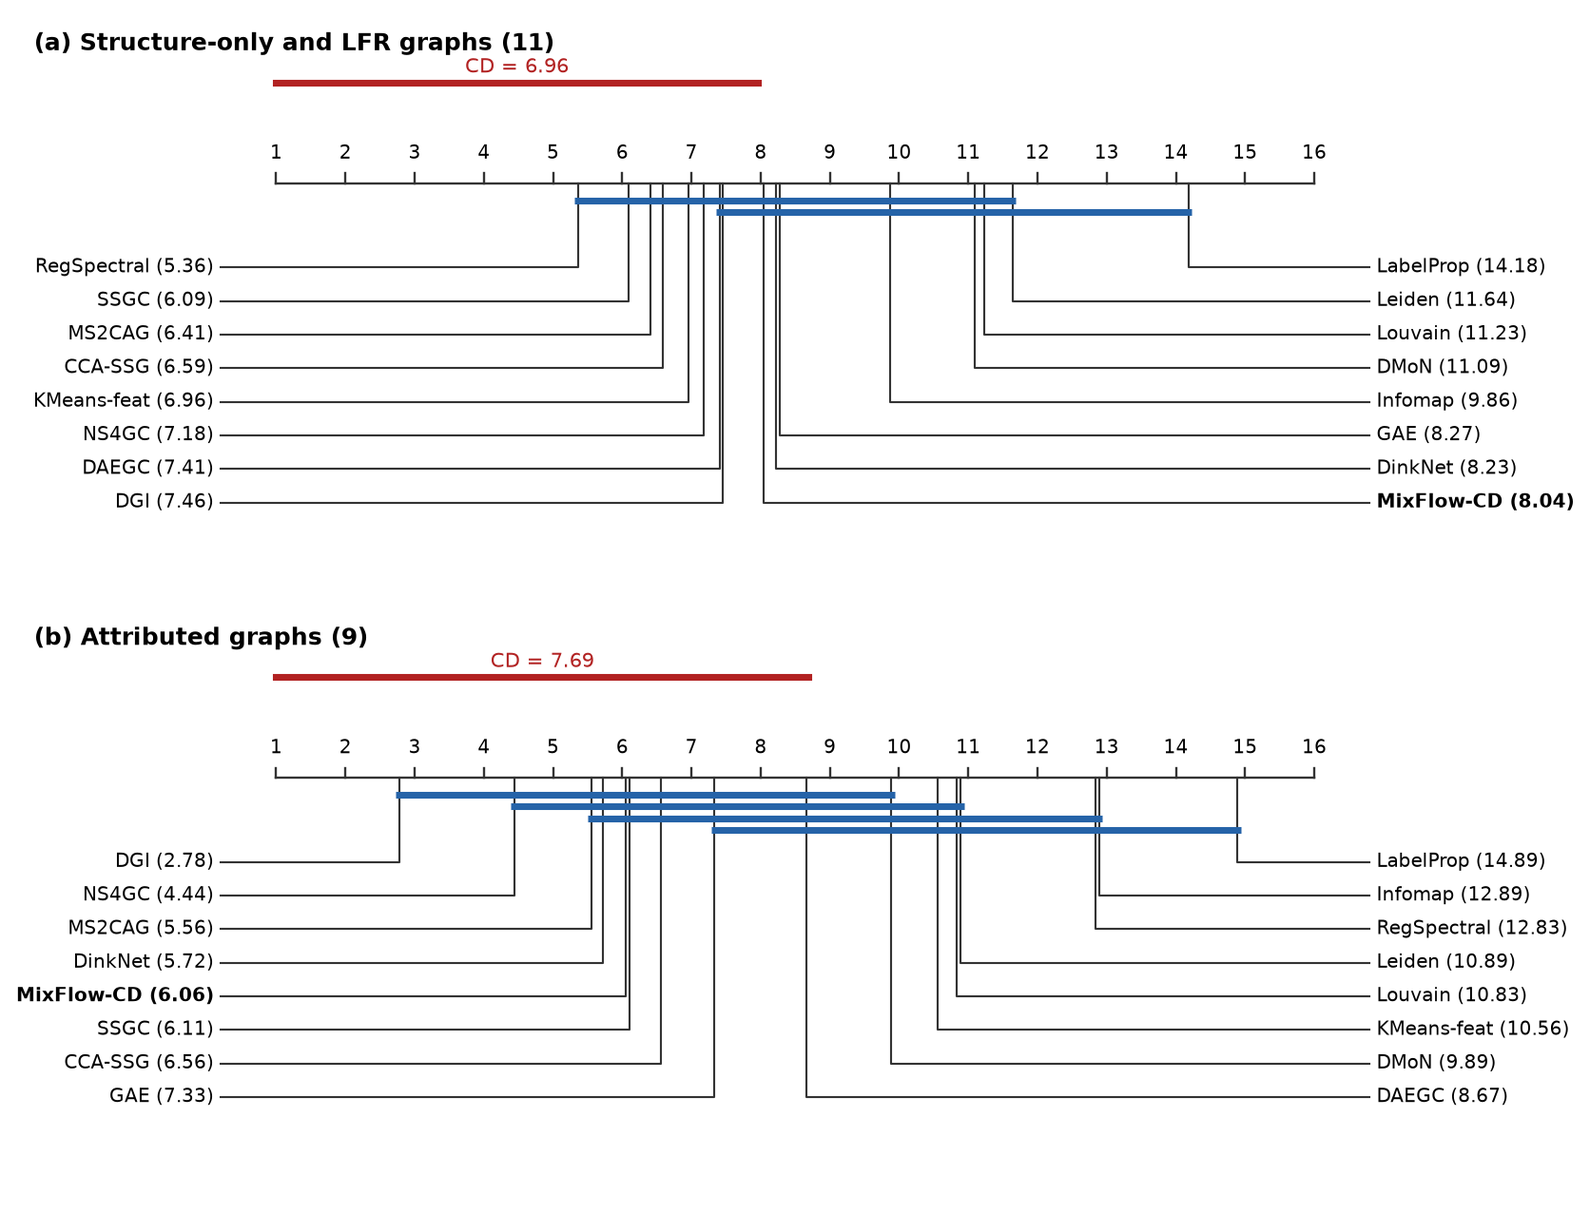
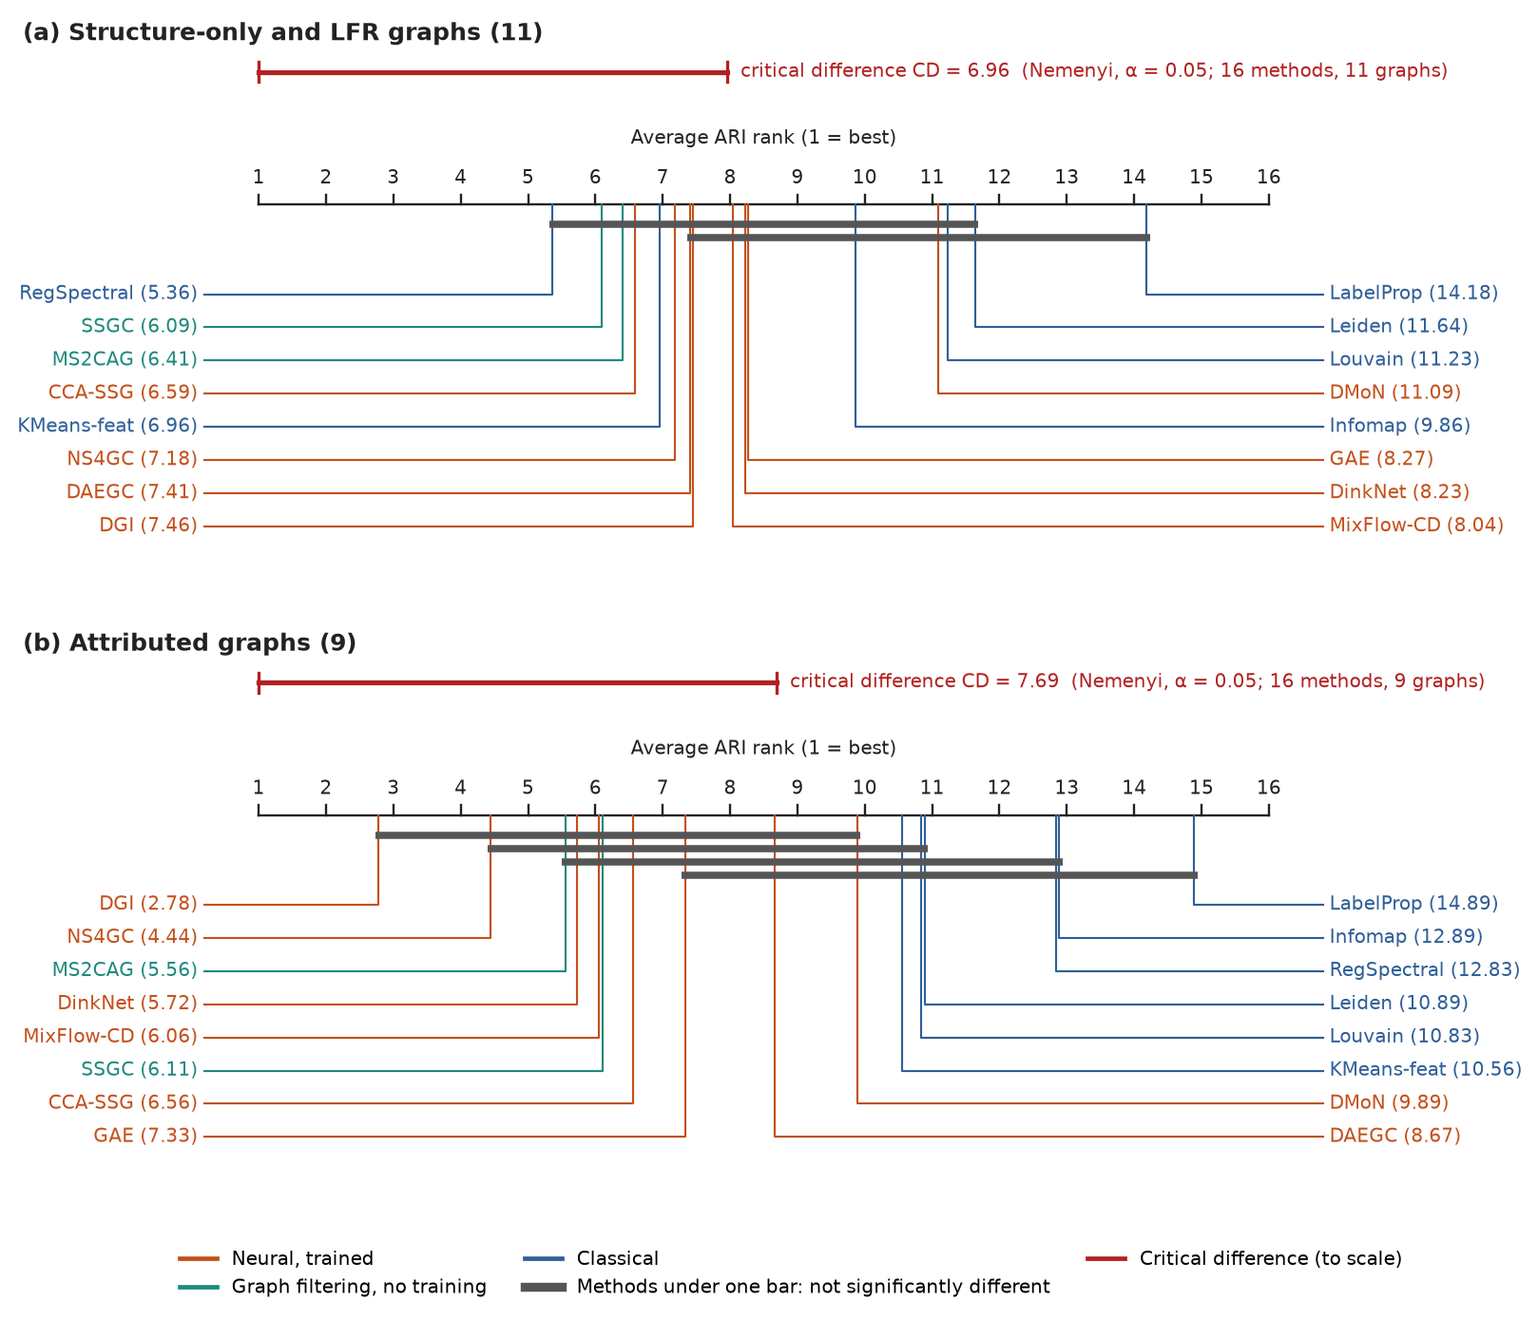
v1.2: redrawn Figs. 2-4, script for Fig. 1, 600 dpi TIFF export

diff --git a/analysis/plot_pareto.py b/analysis/plot_pareto.py
@@ -1,37 +1,66 @@
+"""Fig. 3: mean ARI against total run time (Pareto analysis). (a) all methods; (b) enlarged view of the crowded
+high-runtime region, with every label joined to its marker by a leader line. Legend below the plotting areas."""
 import os, sys
 sys.path.insert(0, os.path.dirname(os.path.abspath(__file__)))
-from common import ROOT, OUT  # noqa: E402
+from common import ROOT, OUT, save_tif  # noqa: E402
 os.chdir(OUT)  # every output of this script goes to analysis/out
 import json, matplotlib; matplotlib.use("Agg")
 import matplotlib.pyplot as plt
+from matplotlib.lines import Line2D
+from matplotlib.patches import Rectangle
 S = json.load(open("sel.json")); C = S["cost"]
 nm = lambda m: "CCA-SSG" if m == "CCASSG" else m
-FAM = {"Trained deep": ["DGI", "CCASSG", "NS4GC", "DinkNet", "GAE", "DAEGC", "DMoN", "MixFlow-CD"], "Graph filter": ["MS2CAG", "SSGC"],
+FAM = {"Neural, trained": ["DGI", "CCASSG", "NS4GC", "DinkNet", "GAE", "DAEGC", "DMoN", "MixFlow-CD"], "Graph filter": ["MS2CAG", "SSGC"],
        "Classical": ["RegSpectral", "KMeans-feat", "Louvain", "Leiden", "Infomap", "LabelProp"]}
-COL = {"Trained deep": "#d9622b", "Graph filter": "#2a9d8f", "Classical": "#3a6ea5"}
-fig, ax = plt.subplots(figsize=(7.2, 4.4))
-pts = []
-for fam, ms in FAM.items():
-    for m in ms:
-        c = C[m]; x, y = c["total"], c["mean_ari"]; pts.append((x, y, m))
-        size = 40 + c["mem"] / 40 if c["mem"] else 40
-        mk = "o" if c["mem"] else "s"
-        edge = "black" if c["over6"] or c["fails"] else "none"
-        ax.scatter(x, y, s=size, c=COL[fam], marker=mk, edgecolors=edge, linewidths=1.2, alpha=0.9, zorder=3, label=fam if m == ms[0] else None)
-        off = {"SSGC": (-34, -16), "KMeans-feat": (-20, -13), "GAE": (8, -2), "CCASSG": (-20, 8), "NS4GC": (8, 5)}.get(m, (6, 4))
-        ax.annotate(nm(m), (x, y), textcoords="offset points", xytext=off, fontsize=7.5)
-pts.sort()
+COL = {"Neural, trained": "#d9622b", "Graph filter": "#2a9d8f", "Classical": "#3a6ea5"}
+ZX, ZY = (140, 1700), (0.482, 0.556)                      # region enlarged in panel (b)
+pts = [(C[m]["total"], C[m]["mean_ari"], m, fam) for fam, ms in FAM.items() for m in ms]
+size = lambda m: 40 + C[m]["mem"] / 40 if C[m]["mem"] else 40
 front, best = [], -1
-for x, y, m in pts:
+for x, y, m, _ in sorted(pts):
     if y > best:
         front.append((x, y)); best = y
-ax.step([p[0] for p in front], [p[1] for p in front], where="post", color="#555", lw=1, ls="--", zorder=2, label="Pareto front")
-ax.set_xscale("log"); ax.set_xlabel("Total time for one run on each of the 20 graphs (s, log scale)"); ax.set_ylabel("Mean ARI over the 20 graphs")
-ax.grid(alpha=0.25, which="both"); from matplotlib.lines import Line2D
-hs = [Line2D([], [], marker="o", ls="", color=COL["Trained deep"], ms=7, label="Trained deep (GPU)"), Line2D([], [], marker="o", ls="", color=COL["Graph filter"], ms=7, label="Graph filter (GPU)"),
-      Line2D([], [], marker="s", ls="", color=COL["Classical"], ms=7, label="Classical (CPU)"), Line2D([], [], marker="o", ls="", mfc="none", mec="black", ms=9, label="Exceeded 6 GB or a candidate failed"),
+
+fig, (ax, bx) = plt.subplots(2, 1, figsize=(7.2, 8.2), gridspec_kw=dict(height_ratios=[1, 1], hspace=0.32))
+for a in (ax, bx):
+    for x, y, m, fam in pts:
+        a.scatter(x, y, s=size(m), c=COL[fam], marker="o" if C[m]["mem"] else "s",
+                  edgecolors="black" if C[m]["over6"] or C[m]["fails"] else "none", linewidths=1.2, alpha=0.85, zorder=3)
+    a.step([p[0] for p in front], [p[1] for p in front], where="post", color="#555", lw=1, ls="--", zorder=2)
+    a.set_xscale("log"); a.grid(alpha=0.25, which="both")
+    for s in ("top", "right"): a.spines[s].set_visible(False)
+    a.set_xlabel("Total time for one run on each of the 20 graphs (s, log scale)", fontsize=9); a.set_ylabel("Mean ARI over the 20 graphs", fontsize=9)
+    a.tick_params(labelsize=8)
+
+# (a) every method outside the enlarged region is labelled here; the region itself is labelled in (b)
+OFF_A = {"KMeans-feat": (-22, -14), "Louvain": (-8, -14), "DMoN": (6, 5)}
+for x, y, m, _ in pts:
+    if not (ZX[0] <= x <= ZX[1] and ZY[0] <= y <= ZY[1]):
+        ax.annotate(nm(m), (x, y), textcoords="offset points", xytext=OFF_A.get(m, (6, 4)), fontsize=7.5)
+ax.add_patch(Rectangle((ZX[0], ZY[0]), ZX[1] - ZX[0], ZY[1] - ZY[0], fill=False, ls=":", lw=1.0, ec="#333", zorder=1))
+ax.text(ZX[1], ZY[1] + 0.004, "enlarged in (b)", fontsize=7.5, va="bottom", ha="right", color="#333")
+ax.set_xlim(1.5, 2500); ax.set_title("(a) All methods", loc="left", fontsize=10, fontweight="bold")
+
+# (b) enlarged region; label positions chosen so that no label covers a marker
+OFF_B = {"DGI": (-34, 16), "NS4GC": (26, 18), "CCASSG": (-10, -24), "SSGC": (-58, -16), "GAE": (-34, -26),
+         "DAEGC": (18, -2), "DinkNet": (28, 12), "MixFlow-CD": (30, -14)}
+for x, y, m, _ in pts:
+    if ZX[0] <= x <= ZX[1] and ZY[0] <= y <= ZY[1]:
+        bx.annotate(nm(m), (x, y), textcoords="offset points", xytext=OFF_B.get(m, (12, 8)), fontsize=8, va="center",
+                    arrowprops=dict(arrowstyle="-", color="#777", lw=0.6, shrinkA=1, shrinkB=5), zorder=5)
+bx.set_xlim(*ZX); bx.set_ylim(*ZY)
+from matplotlib.ticker import FixedLocator, NullFormatter, NullLocator
+bx.xaxis.set_major_locator(FixedLocator([200, 300, 500, 700, 1000, 1500])); bx.xaxis.set_minor_locator(NullLocator())
+bx.set_xticklabels(["200", "300", "500", "700", "1,000", "1,500"]); bx.set_title("(b) Enlarged high-runtime region", loc="left", fontsize=10, fontweight="bold")
+
+hs = [Line2D([], [], marker="o", ls="", color=COL["Neural, trained"], ms=7, label="Neural, trained (GPU)"),
+      Line2D([], [], marker="o", ls="", color=COL["Graph filter"], ms=7, label="Graph filtering (GPU)"),
+      Line2D([], [], marker="s", ls="", color=COL["Classical"], ms=7, label="Classical (CPU)"),
+      Line2D([], [], marker="o", ls="", mfc="none", mec="black", ms=9, label="Exceeded 6 GB or a candidate failed"),
       Line2D([], [], color="#555", ls="--", label="Pareto front")]
-ax.legend(handles=hs, fontsize=7.5, loc="lower right", frameon=False)
-for s in ("top", "right"): ax.spines[s].set_visible(False)
-fig.tight_layout(); fig.savefig("pareto.png", dpi=180, bbox_inches="tight", facecolor="white")
+hs += [Line2D([], [], marker="o", ls="", mfc="#bbb", mec="none", ms=(40 + g * 1024 / 40) ** 0.5, label=f"Peak GPU memory {g} GB") for g in (1, 3, 6)]
+hs = [hs[0], hs[3], hs[1], hs[5], hs[2], hs[6], hs[4], hs[7]]
+fig.legend(handles=hs, fontsize=7.8, loc="upper center", bbox_to_anchor=(0.5, 0.045), ncol=4, frameon=False, labelspacing=1.0, columnspacing=1.5)
+fig.savefig("pareto.png", dpi=200, bbox_inches="tight", facecolor="white")
+save_tif(fig, "Fig3.tif")  # print-resolution file for the journal
 print(front)

diff --git a/analysis/plot_cd.py b/analysis/plot_cd.py
@@ -1,45 +1,68 @@
 """Fig. 2: critical-difference diagrams of the ARI ranks, by graph type (structure-only and attributed) and pooled."""
 import os, sys
 sys.path.insert(0, os.path.dirname(os.path.abspath(__file__)))
-from common import ROOT, OUT  # noqa: E402
+from common import ROOT, OUT, save_tif  # noqa: E402
 os.chdir(OUT)
 import json, matplotlib; matplotlib.use("Agg")
 import matplotlib.pyplot as plt
+from matplotlib.lines import Line2D
 S = json.load(open("sel.json"))
 nm = lambda m: "CCA-SSG" if m == "CCASSG" else m
+FAM = {**{m: "neural" for m in ["DGI", "CCASSG", "NS4GC", "DinkNet", "GAE", "DAEGC", "DMoN", "MixFlow-CD"]},
+       **{m: "filter" for m in ["SSGC", "MS2CAG"]},
+       **{m: "classical" for m in ["RegSpectral", "KMeans-feat", "KMeans-featM", "Louvain", "Leiden", "LeidenK", "Infomap", "LabelProp", "SpecAttr"]}}
+COL = {"neural": "#c4501b", "filter": "#1f8a7e", "classical": "#2f5f99"}
+INK, CLQ = "#222", "#555"
 
 
 def draw(ax, fr, title):
-    cd = fr["cd"]; items = list(fr["ranks"].items()); k = len(items)
-    ax.set_xlim(-2.6, k + 2.6); ax.set_ylim(-0.2, 1.55); ax.axis("off")
+    cd = fr["cd"]; items = list(fr["ranks"].items()); k = len(items); N = fr["N"]
+    ax.set_xlim(-2.6, k + 2.6); ax.set_ylim(-0.2, 1.62); ax.axis("off")
     y0 = 1.05
-    ax.text(-2.5, 1.5, title, ha="left", va="top", fontsize=10.5, fontweight="bold")
-    ax.plot([1, k], [y0, y0], color="#333", lw=1)
+    ax.text(-2.5, 1.6, title, ha="left", va="top", fontsize=10.5, fontweight="bold", color=INK)
+    ax.plot([1, k], [y0, y0], color=INK, lw=1)
     for t in range(1, k + 1):
-        ax.plot([t, t], [y0, y0 + 0.03], color="#333", lw=1); ax.text(t, y0 + 0.06, str(t), ha="center", va="bottom", fontsize=8.5)
-    ax.plot([1, 1 + cd], [y0 + 0.3, y0 + 0.3], color="#b22222", lw=3); ax.text(1 + cd / 2, y0 + 0.33, f"CD = {cd:.2f}", ha="center", color="#b22222", fontsize=9)
+        ax.plot([t, t], [y0, y0 + 0.03], color=INK, lw=1); ax.text(t, y0 + 0.05, str(t), ha="center", va="bottom", fontsize=8.5, color=INK)
+    ax.text((1 + k) / 2, y0 + 0.17, "Average ARI rank (1 = best)", ha="center", va="bottom", fontsize=8.5, color=INK)
+    # critical difference, drawn to scale from rank 1
+    yc = y0 + 0.40
+    ax.plot([1, 1 + cd], [yc, yc], color="#b22222", lw=2.2)
+    for xx in (1, 1 + cd): ax.plot([xx, xx], [yc - 0.03, yc + 0.03], color="#b22222", lw=1.4)
+    ax.text(1 + cd + 0.2, yc, f"critical difference CD = {cd:.2f}  (Nemenyi, α = 0.05; {k} methods, {N} graphs)",
+            ha="left", va="center", color="#b22222", fontsize=8.3)
     half = (k + 1) // 2
     for side, part in [(0, items[:half]), (1, items[half:][::-1])]:
         for i, (m, r) in enumerate(part):
-            y = 0.8 - i * 0.1
+            y = 0.78 - i * 0.1
             x_end = 0.2 if side == 0 else k + 0.8
-            ax.plot([r, r, x_end], [y0, y, y], color="#333", lw=0.9)
-            ax.text(0.1 if side == 0 else k + 0.9, y, f"{nm(m)} ({r:.2f})", ha="right" if side == 0 else "left", va="center", fontsize=8.5,
-                    fontweight="bold" if m == "MixFlow-CD" else None)
+            c = COL[FAM.get(m, "classical")]
+            ax.plot([r, r, x_end], [y0, y, y], color=c, lw=0.9)
+            ax.text(0.1 if side == 0 else k + 0.9, y, f"{nm(m)} ({r:.2f})", ha="right" if side == 0 else "left", va="center", fontsize=8.5, color=c)
     rs = [r for _, r in items]; cl = []
     for i in range(k):
         j = max(j for j in range(k) if rs[j] - rs[i] < cd)
         if j > i and not any(a <= i and j <= b for a, b in cl):
             cl.append((i, j))
     for n, (i, j) in enumerate(cl):
-        yy = y0 - 0.05 - n * 0.035
-        ax.plot([rs[i] - 0.05, rs[j] + 0.05], [yy, yy], color="#2563a8", lw=3.0, solid_capstyle="butt")
+        yy = y0 - 0.06 - n * 0.04
+        ax.plot([rs[i] - 0.05, rs[j] + 0.05], [yy, yy], color=CLQ, lw=3.2, solid_capstyle="butt")
 
 
-fig, axes = plt.subplots(2, 1, figsize=(10, 7.4))
+def legend(fig):
+    hs = [Line2D([], [], color=COL["neural"], lw=2, label="Neural, trained"), Line2D([], [], color=COL["filter"], lw=2, label="Graph filtering, no training"),
+          Line2D([], [], color=COL["classical"], lw=2, label="Classical"),
+          Line2D([], [], color=CLQ, lw=4, label="Methods under one bar: not significantly different"),
+          Line2D([], [], color="#b22222", lw=2, label="Critical difference (to scale)")]
+    fig.legend(handles=hs, loc="lower center", ncol=3, frameon=False, fontsize=8.3, bbox_to_anchor=(0.5, -0.01))
+
+
+fig, axes = plt.subplots(2, 1, figsize=(10, 8.0))
 draw(axes[0], S["ari_struct"], f"(a) Structure-only and LFR graphs ({S['ari_struct']['N']})")
 draw(axes[1], S["ari_attr"], f"(b) Attributed graphs ({S['ari_attr']['N']})")
-fig.tight_layout(pad=0.3); fig.savefig("cd_ari_groups.png", dpi=170, bbox_inches="tight", facecolor="white")
-fig, ax = plt.subplots(figsize=(10, 3.7)); draw(ax, S["FA"], f"All graphs ({S['FA']['N']})")
-fig.tight_layout(pad=0.1); fig.savefig("cd_ari_sel.png", dpi=170, bbox_inches="tight", facecolor="white")
+fig.tight_layout(pad=0.3, rect=(0, 0.05, 1, 1)); legend(fig)
+fig.savefig("cd_ari_groups.png", dpi=170, bbox_inches="tight", facecolor="white")
+save_tif(fig, "Fig2.tif")  # print-resolution file for the journal
+fig, ax = plt.subplots(figsize=(10, 4.2)); draw(ax, S["FA"], f"All graphs ({S['FA']['N']})")
+fig.tight_layout(pad=0.1, rect=(0, 0.1, 1, 1)); legend(fig)
+fig.savefig("cd_ari_sel.png", dpi=170, bbox_inches="tight", facecolor="white")
 print("CD figures written")

diff --git a/analysis/plot_overview.py b/analysis/plot_overview.py
@@ -1,0 +1,60 @@
+"""Fig. 1: study design overview (graphs -> methods -> protocol -> evaluation)."""
+import os, sys
+sys.path.insert(0, os.path.dirname(os.path.abspath(__file__)))
+from common import OUT, save_tif  # noqa: E402
+os.chdir(OUT)
+import matplotlib
+matplotlib.use("Agg")
+import matplotlib.pyplot as plt
+from matplotlib.patches import FancyBboxPatch
+
+INK, MUTED, LINE = "#1f1f1e", "#55544f", "#9a9890"
+FILL = {"data": "#e8f0fb", "method": "#fdeee6", "proto": "#e6f6ef", "eval": "#f3f3f1"}
+EDGE = {"data": "#2a78d6", "method": "#eb6834", "proto": "#1baf7a", "eval": "#6b6a64"}
+
+fig, ax = plt.subplots(figsize=(7.4, 4.3), dpi=300)
+ax.set_xlim(0, 100); ax.set_ylim(0, 60); ax.axis("off")
+
+
+def box(x, y, w, h, kind, title, lines, fs=6.6, step=3.0):
+    ax.add_patch(FancyBboxPatch((x, y), w, h, boxstyle="round,pad=0.25,rounding_size=1.2",
+                                fc=FILL[kind], ec=EDGE[kind], lw=0.9))
+    ax.text(x + w / 2, y + h - 2.0, title, ha="center", va="top", fontsize=7.2, fontweight="bold", color=INK)
+    for i, ln in enumerate(lines):
+        ax.text(x + 1.4, y + h - 5.6 - i * step, ln, ha="left", va="top", fontsize=fs, color=INK)
+
+
+def arrow(x0, y0, x1, y1):
+    ax.annotate("", xy=(x1, y1), xytext=(x0, y0), arrowprops=dict(arrowstyle="-|>", color=LINE, lw=1.0, mutation_scale=8))
+
+
+ax.text(12.5, 58.5, "Graphs", ha="center", fontsize=8, color=MUTED, fontweight="bold")
+ax.text(41, 58.5, "Methods (16)", ha="center", fontsize=8, color=MUTED, fontweight="bold")
+ax.text(66.5, 58.5, "Protocol", ha="center", fontsize=8, color=MUTED, fontweight="bold")
+ax.text(89, 58.5, "Evaluation", ha="center", fontsize=8, color=MUTED, fontweight="bold")
+
+box(1, 41, 23, 15, "data", "Structure-only (5)", ["Email-Eu-core, Football,", "Dolphins, UKfaculty, KKI"])
+box(1, 21.5, 23, 17, "data", "Attributed (10)", ["Cora, Citeseer, PubMed, Wiki,", "Photo, BlogCatalog, Coauthor-CS;", "heterophilous: Chameleon,", "Squirrel, Actor"], fs=5.9)
+box(1, 2, 23, 18, "data", "Synthetic LFR", ["6 graphs, μ = 0.2–0.7", "Sweep: 48 graphs, μ = 0.1–0.8", "Heterogeneity: 18 graphs", "(n = 5,000; realized mixing)"], fs=6.0)
+
+box(28, 41, 26, 15, "method", "Neural, trained (8)", ["DGI, CCA-SSG, NS4GC, DinkNet,", "GAE, DAEGC, DMoN (PyAGC code);", "MixFlow-CD (flow mixture)"], fs=6.2)
+box(28, 23, 26, 15, "method", "Graph filtering, no training (2)", ["SSGC, MS2CAG", "(PyAGC reference code)"], fs=6.2)
+box(28, 2, 26, 18, "method", "Classical (6)", ["Need K: RegSpectral, KMeans-feat", "Choose K: Louvain, Leiden,", "  Infomap, LabelProp", "Controls: Leiden-K, SpecAttr,", "  KMeans-featM"], fs=6.0, step=2.55)
+
+box(58, 2, 17, 54, "proto", "Controlled inputs", ["Common graph data for all", "Feature-based methods:", "  identical available attributes,", "  or constructed structural", "  features if there are none", "Topology-only methods:", "  the edges only", "Permitted inputs per method", "  explicitly controlled (§5.6)", "K: true K where needed;", "  unknown K: 2 estimators", "5 seeds (1 per synthetic graph)", "No labels for selection:", "  4 configs, max modularity", "Budget: 6 GB GPU, 16 GB RAM,", "  60 min per job"], fs=5.4, step=2.85)
+
+box(79, 31, 20, 25, "eval", "Metrics", ["ACC (Hungarian)", "ARI (headline)", "NMI, macro-F1", "Modularity, time,", "  peak memory"], fs=6.3)
+box(79, 2, 20, 26, "eval", "Statistics (per graph)", ["Friedman + Nemenyi on ARI,", "  by kind of graph", "Paired differences,", "  bootstrap 95% CI", "Holm-adjusted signed-rank", "  (stratified for synthetic)", "Non-inferiority (δ = 0.05)"], fs=6.0)
+
+for y in (48.5, 30.5, 11):
+    arrow(24.6, y, 27.4, y)
+for y in (48.5, 30.5, 11):
+    arrow(54.6, y, 57.4, y)
+arrow(75.6, 43.5, 78.4, 43.5)
+arrow(75.6, 15, 78.4, 15)
+arrow(89, 30.6, 89, 28.6)
+
+fig.tight_layout(pad=0.2)
+fig.savefig("fig1_overview.png", bbox_inches="tight", facecolor="white")
+save_tif(fig, "Fig1.tif")
+print("Fig. 1 written")

diff --git a/analysis/plot_sweep.py b/analysis/plot_sweep.py
@@ -1,6 +1,6 @@
 import os, sys
 sys.path.insert(0, os.path.dirname(os.path.abspath(__file__)))
-from common import ROOT, OUT  # noqa: E402
+from common import ROOT, OUT, save_tif  # noqa: E402
 os.chdir(OUT)  # every output of this script goes to analysis/out
 import json, numpy as np, matplotlib
 matplotlib.use("Agg"); import matplotlib.pyplot as plt
@@ -9,19 +9,27 @@ SHOWN = [("Infomap", "Infomap", "#2a78d6", "o"), ("RegSpectral", "RegSpectral", 
          ("KMeans-featM", "k-means on input (matched)", "#1baf7a", "^"), ("DGI", "DGI", "#7b4fc9", "X"),
          ("DAEGC", "DAEGC", "#e87ba4", "v"), ("NS4GC", "NS4GC", "#eda100", "D"), ("LeidenK", "Leiden (K given)", "#008300", "P")]
 INK, MUTED, GRID = "#1f1f1e", "#6b6a64", "#e4e3de"
-fig, ax = plt.subplots(figsize=(6.4, 4.0), dpi=200)
+fig, (ax, bx) = plt.subplots(2, 1, figsize=(6.4, 6.2), dpi=200, gridspec_kw=dict(height_ratios=[2.2, 1], hspace=0.45))
 x = np.array([float(m) for m in MUS])
-for key, lab, c, mk in SHOWN:
+for n, (key, lab, c, mk) in enumerate(SHOWN):
     mu = np.array([SW[key][m][0] for m in MUS]); sd = np.array([SW[key][m][1] for m in MUS])
-    ax.fill_between(x, mu - sd, mu + sd, color=c, alpha=0.12, lw=0)
-    ax.plot(x, mu, color=c, lw=1.8, marker=mk, ms=5.5, mec="white", mew=1.0, label=lab)
+    dx = 0.0
+    ax.plot(x, mu, color=c, lw=1.6, marker=mk, ms=4.8, mec="white", mew=0.8, label=lab, zorder=3)
+    ax.errorbar(x + dx, mu, yerr=sd, color=c, ls="none", elinewidth=1.0, capsize=2.2, capthick=1.0, zorder=4)
+    bx.plot(x, sd, color=c, lw=1.4, marker=mk, ms=4, mec="white", mew=0.6)
 ax.set_xlabel("Nominal mixing parameter μ", color=INK, fontsize=9)
-ax.set_ylabel("ARI", color=INK, fontsize=9); ax.set_ylim(-0.02, 1.02); ax.set_xticks(x)
+ax.set_ylabel("ARI (mean ± 1 s.d.)", color=INK, fontsize=9); ax.set_ylim(-0.02, 1.02); ax.set_xticks(x)
 top = ax.secondary_xaxis("top"); top.set_xticks(x); top.set_xticklabels([f"{S['mix'][m]:.2f}" for m in MUS])
 top.set_xlabel("Realized mixing (1 − edge homophily)", color=INK, fontsize=9); top.tick_params(colors=MUTED, labelsize=8)
-ax.grid(axis="y", color=GRID, lw=0.8); ax.set_axisbelow(True)
-for sp in ["top", "right"]: ax.spines[sp].set_visible(False)
-for sp in ["left", "bottom"]: ax.spines[sp].set_color(MUTED)
-ax.tick_params(colors=MUTED, labelsize=8)
-ax.legend(frameon=False, fontsize=8, loc="upper center", bbox_to_anchor=(0.5, -0.16), ncol=4, labelcolor=INK)
-fig.tight_layout(); fig.savefig("sweep48.png", bbox_inches="tight", facecolor="white")
+ax.text(-0.09, 1.13, "(a)", transform=ax.transAxes, fontsize=10, fontweight="bold", color=INK)
+bx.text(-0.09, 1.08, "(b)", transform=bx.transAxes, fontsize=10, fontweight="bold", color=INK)
+bx.set_xticks(x); bx.set_xlabel("Nominal mixing parameter μ", color=INK, fontsize=9)
+bx.set_ylabel("s.d. of ARI\nacross six graphs", color=INK, fontsize=9); bx.set_ylim(0, None)
+for a in (ax, bx):
+    a.grid(axis="y", color=GRID, lw=0.8); a.set_axisbelow(True)
+    for sp in ["top", "right"]: a.spines[sp].set_visible(False)
+    for sp in ["left", "bottom"]: a.spines[sp].set_color(MUTED)
+    a.tick_params(colors=MUTED, labelsize=8)
+h, l = ax.get_legend_handles_labels(); fig.legend(h, l, frameon=False, fontsize=8, loc="upper center", bbox_to_anchor=(0.5, 0.05), ncol=4, labelcolor=INK)
+fig.savefig("sweep48.png", bbox_inches="tight", facecolor="white")
+save_tif(fig, "Fig4.tif")  # print-resolution file for the journal

diff --git a/analysis/run_all.py b/analysis/run_all.py
@@ -1,10 +1,10 @@
-"""Recompute every table and figure of the paper from all_runs.csv and the graph statistics (a few minutes).
+"""Recompute every table and figure of the paper (PNG for viewing, 600 dpi TIFF for print) from all_runs.csv and the graph statistics (a few minutes).
 
     python analysis/run_all.py
 """
 import os, runpy
 HERE = os.path.dirname(os.path.abspath(__file__))
-for s in ["select_configs", "paired_tests", "rank_tests", "synthetic", "controls", "misc_tables", "plot_cd", "plot_pareto", "plot_sweep"]:
+for s in ["select_configs", "paired_tests", "rank_tests", "synthetic", "controls", "misc_tables", "plot_overview", "plot_cd", "plot_pareto", "plot_sweep"]:
     print(f"== {s}")
     runpy.run_path(os.path.join(HERE, s + ".py"), run_name="__main__")
 print("outputs in analysis/out")

diff --git a/analysis/common.py b/analysis/common.py
@@ -53,3 +53,10 @@ def holm(ps):
     for k, i in enumerate(o):
         run = max(run, (m - k) * ps[i]); adj[i] = min(1, run)
     return adj
+
+
+def save_tif(fig, name, dpi=600):
+    """Save a print-resolution copy of a figure: RGB TIFF with LZW compression at 600 dpi (Elsevier artwork guidelines)."""
+    from PIL import Image
+    fig.savefig(name, dpi=dpi, bbox_inches="tight", facecolor="white", pil_kwargs={"compression": "tiff_lzw"})
+    Image.open(name).convert("RGB").save(name, compression="tiff_lzw", dpi=(dpi, dpi))

diff --git a/analysis/README.md b/analysis/README.md
@@ -12,7 +12,7 @@
 | `synthetic.py` | `syn.json` | Tables 13 and 15, Sections 6.1-6.2 stratified paired tests, Supplementary Tables S21-S23 |
 | `controls.py` | `controls.json` | Tables 11 and 12 (both estimators of K), unknown-K paired comparisons, Supplementary Tables S19-S20 |
 | `misc_tables.py` | `misc_tables.json` | Tables 4, 16, 17 and 19 |
-| `plot_cd.py`, `plot_pareto.py`, `plot_sweep.py` | `*.png` | Figs. 2, 3 and 4 |
+| `plot_overview.py`, `plot_cd.py`, `plot_pareto.py`, `plot_sweep.py` | `*.png`, `Fig1.tif`–`Fig4.tif` (600 dpi) | Figs. 1, 2, 3 and 4 |
 
 `common.py` holds the graph and method lists and the published accuracies used in Table 4.
 Bootstrap intervals use fixed random seeds and 20,000 resamples (seed 0 for unstratified, seed 1 for the stratified
